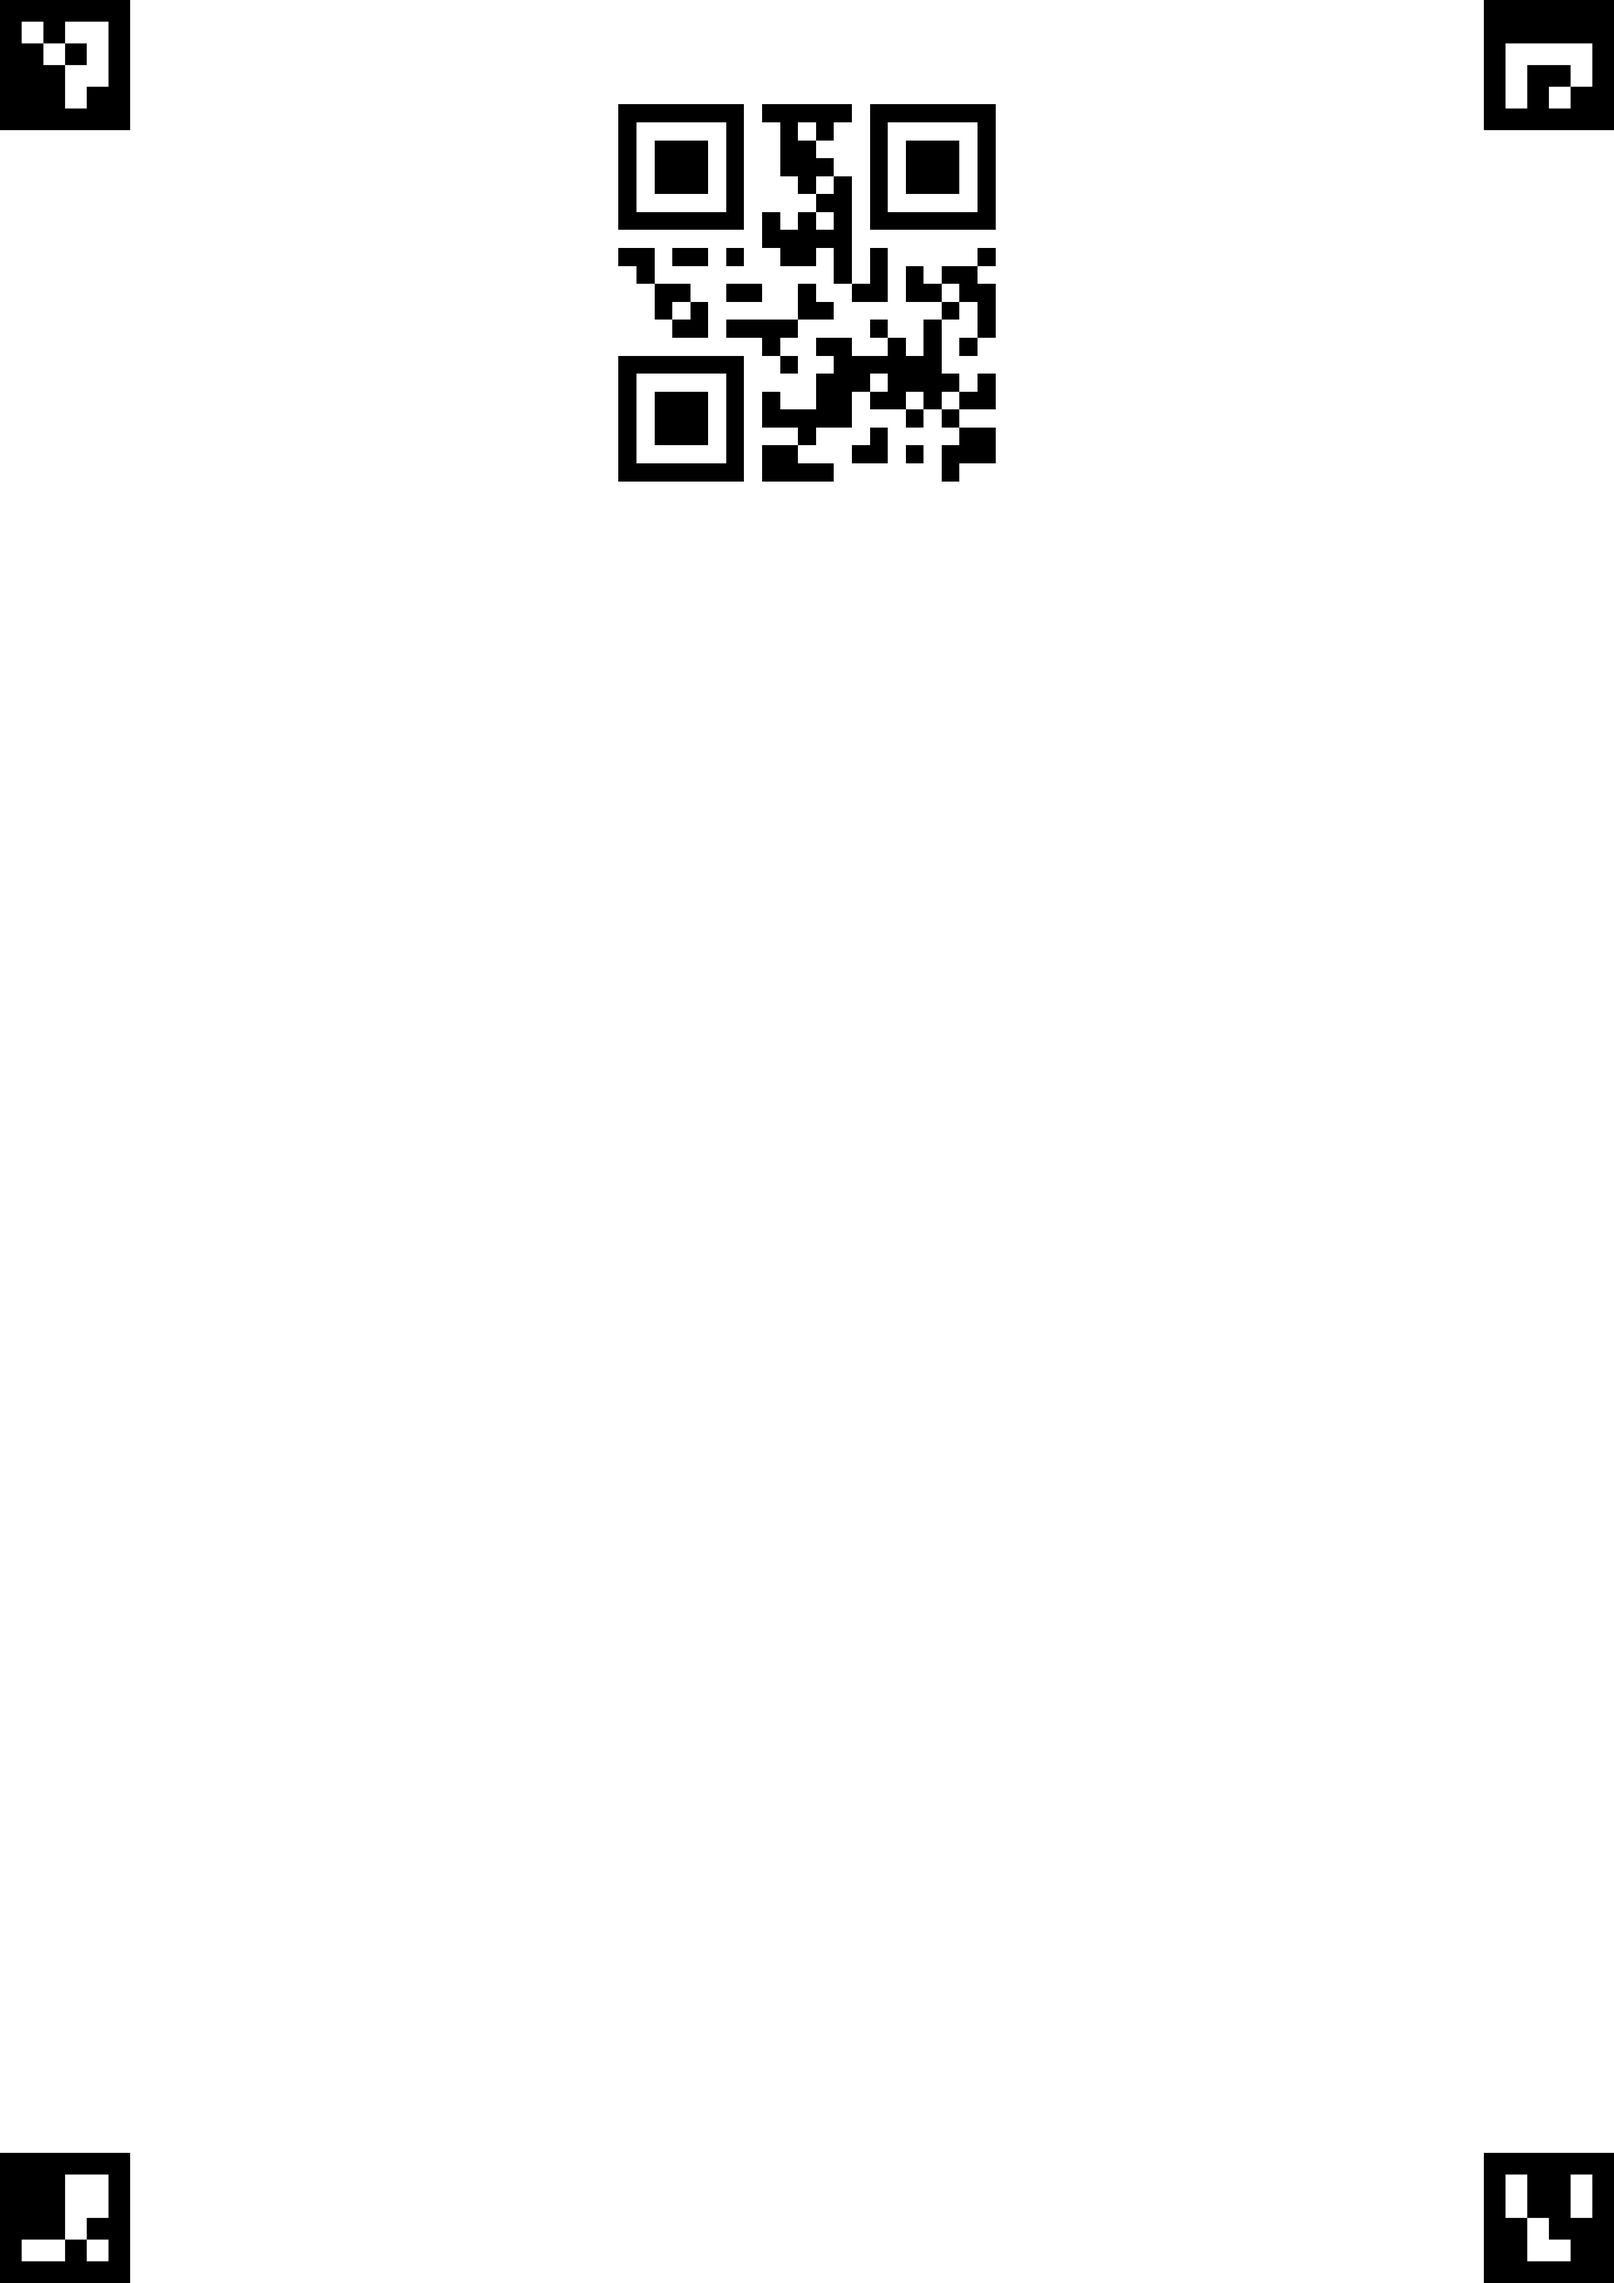
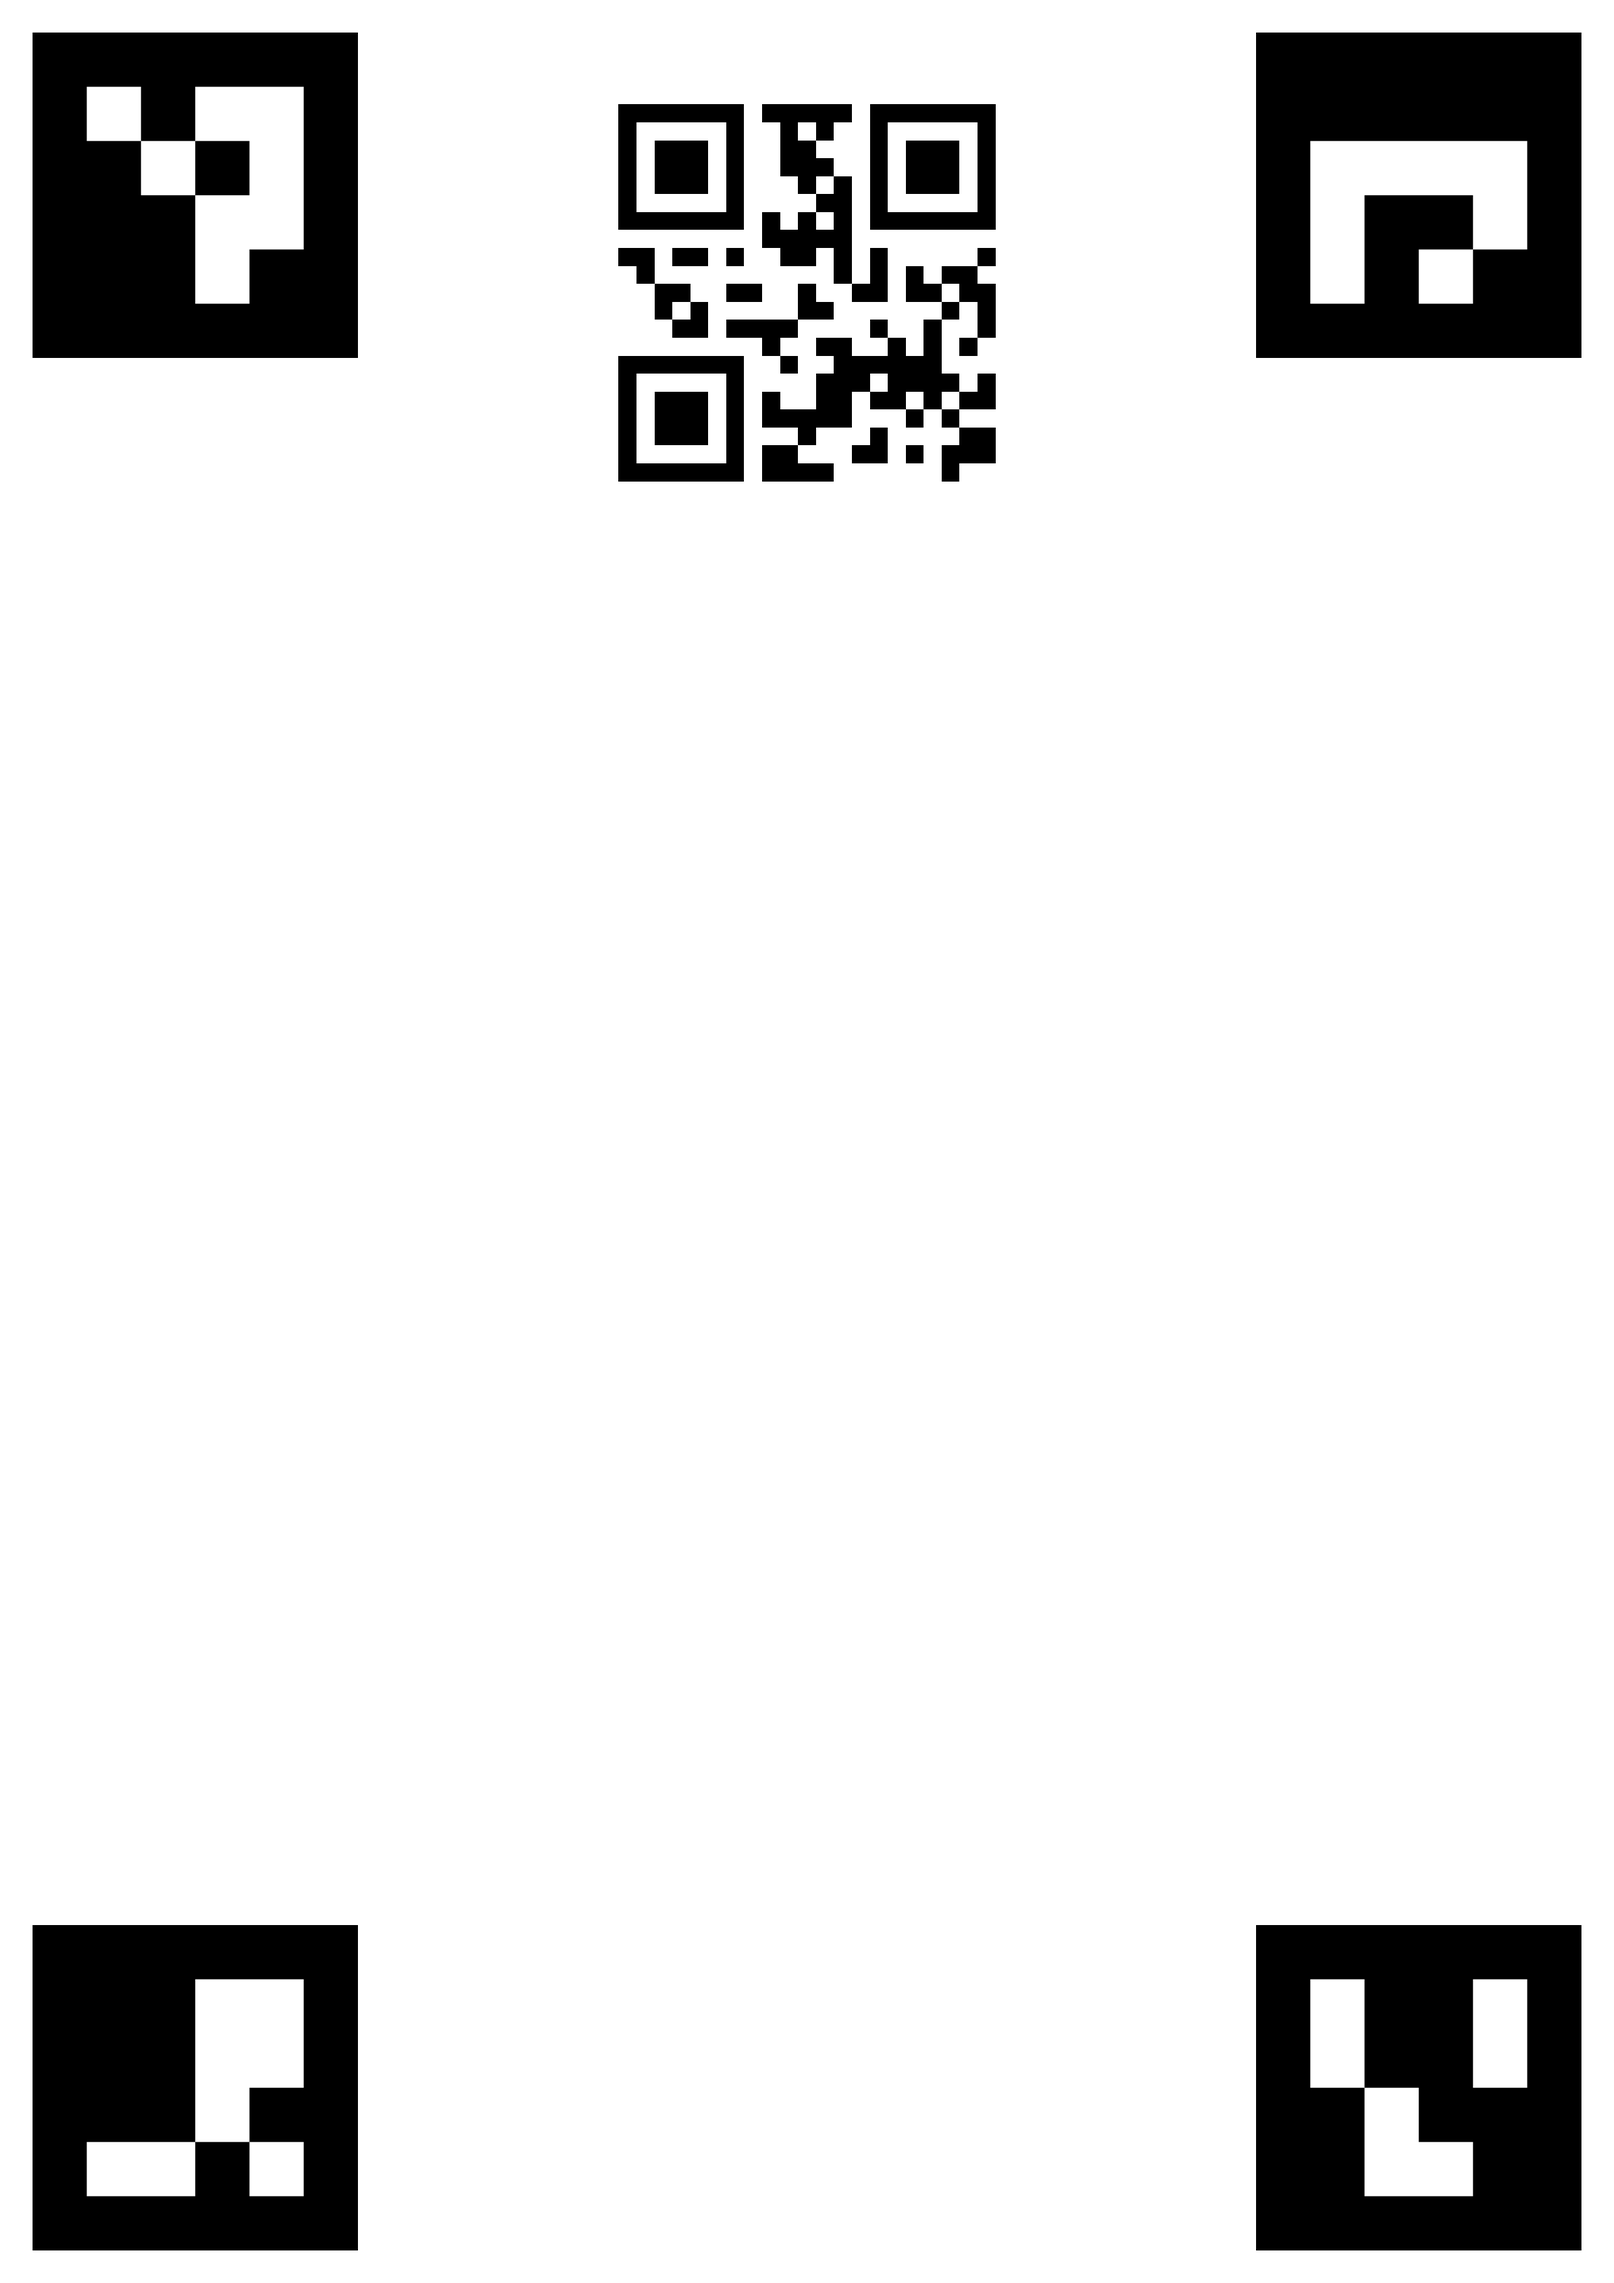
working with bad aligment

diff --git a/qrcodeGenerator.py b/qrcodeGenerator.py
@@ -21,8 +21,8 @@ def generate_qr_code(data, output_dir="qr_codes"):
     print(f"QR Code saved: {img_path}")
     return img_path
 
-def generate_aruco_marker(marker_id, marker_size=200, marker_dir="markers"):
-    """Load a pre-generated ArUco marker from disk."""
+def generate_aruco_marker(marker_id, marker_size=500, marker_dir="markers"):
+    """Load a pre-generated ArUco marker from disk and resize it to the desired marker_size."""
     marker_path = os.path.join(marker_dir, f"marker_{marker_id}.png")
     if not os.path.exists(marker_path):
         raise FileNotFoundError(f"Missing ArUco marker image: {marker_path}")
@@ -31,54 +31,59 @@ def generate_aruco_marker(marker_id, marker_size=200, marker_dir="markers"):
     return marker
 
 def create_print_sheet(animals, outline_dir="outlines", output_dir="print_sheets", sheet_size=(2480, 3508)):
-    """Create print sheets with QR codes, outlines, and ArUco markers."""
+    """Create print sheets with QR codes, outlines, and static ArUco markers (bigger with margin)."""
     os.makedirs(output_dir, exist_ok=True)
     
+    # Define parameters for QR code, outline, and markers
+    qr_size = 800
+    outline_size = (2000, 2000)
+    marker_size = 500  # Increased marker size
+    margin = 50  # Margin from the sheet edge for markers
+
     for animal in animals:
         print(f"\nCreating sheet for: {animal}")
         sheet = Image.new("RGB", sheet_size, "white")
-
-        qr_size = 800
-        outline_size = (2000, 2000)
-        marker_size = 200
-
+        
+        # Position QR code at the top center
         qr_x = (sheet_size[0] - qr_size) // 2
         qr_y = 50
 
+        # Center the outline image on the sheet
         outline_x = (sheet_size[0] - outline_size[0]) // 2
         outline_y = (sheet_size[1] - outline_size[1]) // 2
 
+        # Adjust marker positions so that they have a margin from the edges
         marker_positions = [
-            (0, 0),  # Top-left (ID 0)
-            (sheet_size[0] - marker_size, 0),  # Top-right (ID 1)
-            (0, sheet_size[1] - marker_size),  # Bottom-left (ID 2)
-            (sheet_size[0] - marker_size, sheet_size[1] - marker_size),  # Bottom-right (ID 3)
+            (margin, margin),  # Top-left
+            (sheet_size[0] - marker_size - margin, margin),  # Top-right
+            (margin, sheet_size[1] - marker_size - margin),  # Bottom-left
+            (sheet_size[0] - marker_size - margin, sheet_size[1] - marker_size - margin),  # Bottom-right
         ]
 
-        # Add outline
+        # Add the outline image (or a white placeholder if not found)
         outline_path = os.path.join(outline_dir, f"{animal}.png")
         if os.path.exists(outline_path):
             outline = Image.open(outline_path).convert("RGBA").resize(outline_size)
         else:
-            outline = Image.new("RGBA", outline_size, "white")  # Blank placeholder
+            outline = Image.new("RGBA", outline_size, "white")
         sheet.paste(outline, (outline_x, outline_y), outline)
 
-        # Add QR code
+        # Add the QR code to the sheet
         qr_path = generate_qr_code(animal)
         qr = Image.open(qr_path).resize((qr_size, qr_size))
         sheet.paste(qr, (qr_x, qr_y))
 
-        # Add ArUco markers
+        # Add static ArUco markers (loaded from disk, resized to marker_size) at the adjusted positions
         marker_ids = [0, 1, 2, 3]
         for j, pos in enumerate(marker_positions):
             marker_img = generate_aruco_marker(marker_ids[j], marker_size)
             sheet.paste(marker_img, pos)
 
-        # Save final sheet
+        # Save the final print sheet image
         output_path = os.path.join(output_dir, f"print_sheet_{animal}.png")
         sheet.save(output_path)
         print(f"Print sheet saved: {output_path}")
 
 if __name__ == "__main__":
-    animals = ["frog", "hedgehog", "lion", "tiger", "elephant"]  # Add more if needed
+    animals = ["frog", "hedgehog", "lion", "tiger", "elephant"]
     create_print_sheet(animals)

diff --git a/scannerTest.py b/scannerTest.py
@@ -57,7 +57,9 @@ def align_with_aruco_markers(image, marker_corners, ids, sheet_size):
 
     for i, marker_id in enumerate(ids.flatten()):
         if marker_id in id_to_position:
-            actual_points.append(marker_corners[i][0])
+        # Calculate the center of the marker from its four corners.
+            center = np.mean(marker_corners[i][0], axis=0)
+            actual_points.append(center)
             expected_points.append(id_to_position[marker_id])
 
     if len(actual_points) != 4:
